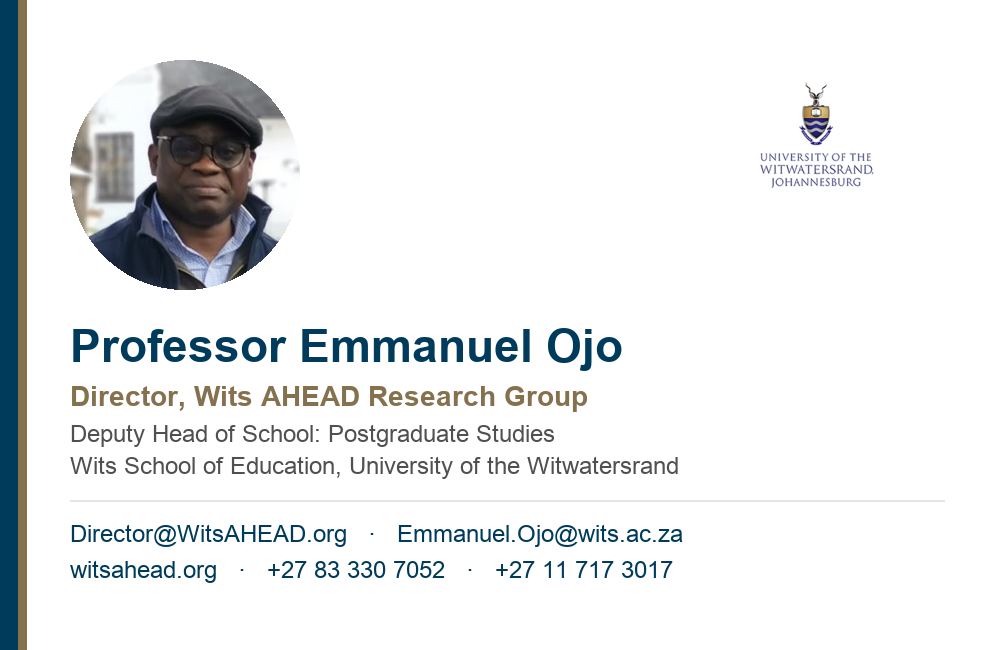
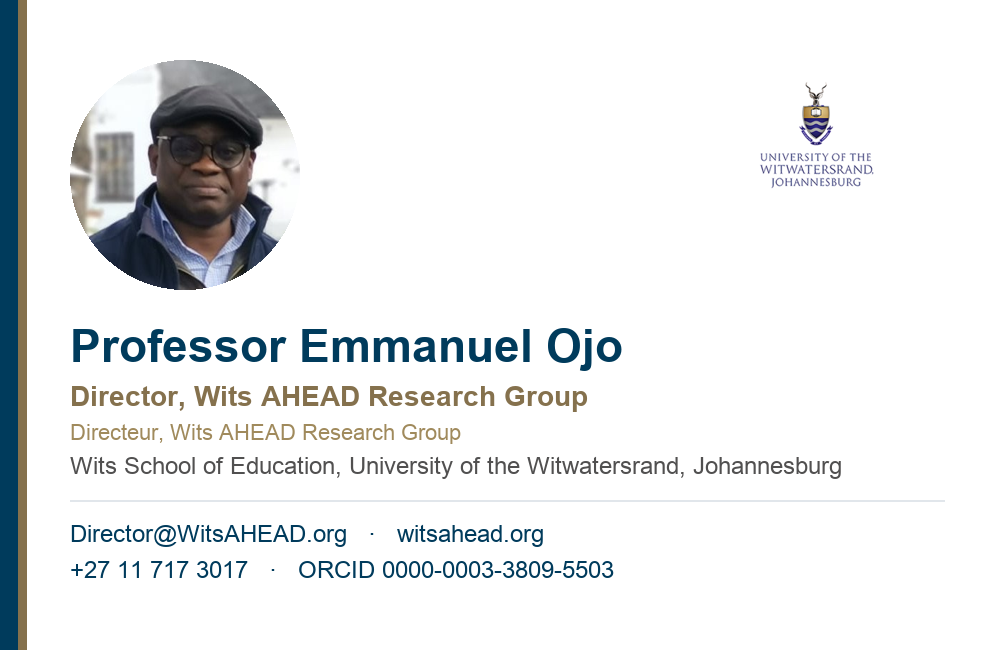
Site update 2026-09-15 00:16

diff --git a/card/index.html b/card/index.html
@@ -26,7 +26,7 @@ body{font-family:var(--font);color:var(--text);background:radial-gradient(1200px
 .head .lg{display:flex;align-items:center;justify-content:center;padding:18px;border-left:1px solid var(--line)}.head .lg img{max-width:100%;max-height:130px}
 .id{padding:20px 22px 6px;border-top:5px solid var(--gold)}
 .id h1{margin:0;font-size:24px;line-height:1.15;color:var(--navy);letter-spacing:-.2px}
-.id .r1{margin:6px 0 0;font-weight:700;color:var(--gold);font-size:14.5px}.id .r2{margin:3px 0 0;color:var(--muted);font-size:13px;line-height:1.45}
+.id .r1{margin:6px 0 0;font-weight:700;color:var(--gold);font-size:14.5px}.id .r1 .fr{display:block;font-weight:600;font-size:13px;color:#A08A5C}.id .r2{margin:3px 0 0;color:var(--muted);font-size:13px;line-height:1.45}
 .id .tag{margin:12px 0 0;font-size:13px;color:var(--navy);font-style:italic;border-left:3px solid var(--sand);padding-left:10px}
 .acts{display:grid;grid-template-columns:1fr 1fr;gap:10px;padding:16px 22px 18px}
 .acts a{display:flex;align-items:center;justify-content:center;gap:8px;padding:13px 10px;border-radius:10px;text-decoration:none;font-weight:700;font-size:14px;border:2px solid var(--navy);color:var(--navy);transition:transform .15s,background .15s}
@@ -52,8 +52,8 @@ body{font-family:var(--font);color:var(--text);background:radial-gradient(1200px
     <div class="head"><div class="ph" role="img" aria-label="Professor Emmanuel Ojo"></div><div class="lg"><img src="wits-crest.png" alt="University of the Witwatersrand, Johannesburg" width="260" height="173"></div></div>
     <div class="id an">
       <h1>Professor Emmanuel Ojo</h1>
-      <p class="r1" data-en="Director, Wits AHEAD Research Group" data-fr="Directeur, Wits AHEAD Research Group">Director, Wits AHEAD Research Group</p>
-      <p class="r2"><span data-en="Deputy Head of School: Postgraduate Studies, Wits School of Education" data-fr="Directeur adjoint de l'École chargé des études supérieures, Wits School of Education">Deputy Head of School: Postgraduate Studies, Wits School of Education</span><br><span data-en="University of the Witwatersrand, Johannesburg" data-fr="Université du Witwatersrand, Johannesburg">University of the Witwatersrand, Johannesburg</span></p>
+      <p class="r1">Director, Wits AHEAD Research Group<span class="fr" lang="fr">Directeur, Wits AHEAD Research Group</span></p>
+      <p class="r2">Wits School of Education<br><span data-en="University of the Witwatersrand, Johannesburg" data-fr="Université du Witwatersrand, Johannesburg">University of the Witwatersrand, Johannesburg</span></p>
       <p class="tag" data-en="Artificial intelligence, analytics and data, put to work for human capability." data-fr="L'intelligence artificielle, l'analytique et les données, au service de la capabilité humaine.">Artificial intelligence, analytics and data, put to work for human capability.</p>
     </div>
     <div class="acts an">
@@ -61,7 +61,7 @@ body{font-family:var(--font);color:var(--text);background:radial-gradient(1200px
       <a href="#" id="share"><svg viewBox="0 0 24 24"><circle cx="6" cy="12" r="2"/><circle cx="18" cy="6" r="2"/><circle cx="18" cy="18" r="2"/><path d="M8 11l8-4M8 13l8 4"/></svg><span data-t="share">Share</span></a>
       <a class="wide" id="exchange" href="mailto:Director@WitsAHEAD.org"><svg viewBox="0 0 24 24"><path d="M3 6h18v12H3z"/><path d="M3 7l9 6 9-6"/></svg><span data-t="exchange">Send me your details</span></a>
     </div>
-    <div class="rows"><a class="row an" href="mailto:Director@WitsAHEAD.org"><span class="ic"><svg viewBox="0 0 24 24"><path d="M3 6h18v12H3z"/><path d="M3 7l9 6 9-6"/></svg></span><span class="tx"><b>Director@WitsAHEAD.org</b><small data-t="email">Email</small></span></a><a class="row an" href="mailto:Emmanuel.Ojo@wits.ac.za"><span class="ic"><svg viewBox="0 0 24 24"><path d="M3 6h18v12H3z"/><path d="M3 7l9 6 9-6"/></svg></span><span class="tx"><b>Emmanuel.Ojo@wits.ac.za</b><small data-t="witsmail">Wits email</small></span></a><a class="row an" href="https://witsahead.org/" target="_blank" rel="noopener"><span class="ic"><svg viewBox="0 0 24 24"><circle cx="12" cy="12" r="9"/><path d="M3 12h18M12 3a14 14 0 010 18M12 3a14 14 0 000 18"/></svg></span><span class="tx"><b>witsahead.org</b><small data-t="web">Website</small></span></a><a class="row an" href="https://pathway.witsahead.org/" target="_blank" rel="noopener"><span class="ic"><svg viewBox="0 0 24 24"><path d="M4 20l6-6M14 4a6 6 0 11-4.2 10.2L4 20"/><circle cx="15" cy="9" r="2"/></svg></span><span class="tx"><b>pathway.witsahead.org</b><small data-t="pathway">For candidates</small></span></a><a class="row an" href="tel:+27117173017"><span class="ic"><svg viewBox="0 0 24 24"><path d="M5 4h4l2 5-2.5 1.5a11 11 0 005 5L15 13l5 2v4a2 2 0 01-2 2A16 16 0 013 6a2 2 0 012-2z"/></svg></span><span class="tx"><b>+27 11 717 3017</b><small data-t="tel">Office</small></span></a><a class="row an" href="tel:+27833307052"><span class="ic"><svg viewBox="0 0 24 24"><rect x="7" y="2" width="10" height="20" rx="2"/><path d="M11 18h2"/></svg></span><span class="tx"><b>+27 83 330 7052</b><small data-t="cell">Mobile</small></span></a><a class="row an" href="https://orcid.org/0000-0003-3809-5503" target="_blank" rel="noopener"><span class="ic"><svg viewBox="0 0 24 24"><circle cx="12" cy="12" r="9"/><path d="M9 8v8M15 8v8M9 8h3a4 4 0 010 8H9"/></svg></span><span class="tx"><b>0000-0003-3809-5503</b><small data-t="orcid">ORCID</small></span></a><a class="row an" href="https://www.linkedin.com/in/emmanuelojo" target="_blank" rel="noopener"><span class="ic"><svg viewBox="0 0 24 24"><rect x="3" y="3" width="18" height="18" rx="3"/><path d="M8 10v7M8 7v.5M12 17v-4a2 2 0 014 0v4"/></svg></span><span class="tx"><b>linkedin.com/in/emmanuelojo</b><small data-t="linkedin">LinkedIn</small></span></a><a class="row an" href="https://x.com/Emmanuel_Ojo" target="_blank" rel="noopener"><span class="ic"><svg viewBox="0 0 24 24"><path d="M4 4l16 16M20 4L4 20"/></svg></span><span class="tx"><b>@Emmanuel_Ojo</b><small data-t="x">X</small></span></a><div class="row an"><span class="ic"><svg viewBox="0 0 24 24"><path d="M12 22s7-7 7-12a7 7 0 10-14 0c0 5 7 12 7 12z"/><circle cx="12" cy="10" r="2.5"/></svg></span><span class="tx"><b>Wits School of Education, University of the Witwatersrand, Private Bag 3, Wits 2050, Johannesburg, South Africa</b><small data-t="addr">Postal address</small></span></div></div>
+    <div class="rows"><a class="row an" href="mailto:Director@WitsAHEAD.org"><span class="ic"><svg viewBox="0 0 24 24"><path d="M3 6h18v12H3z"/><path d="M3 7l9 6 9-6"/></svg></span><span class="tx"><b>Director@WitsAHEAD.org</b><small data-t="email">Email</small></span></a><a class="row an" href="https://witsahead.org/" target="_blank" rel="noopener"><span class="ic"><svg viewBox="0 0 24 24"><circle cx="12" cy="12" r="9"/><path d="M3 12h18M12 3a14 14 0 010 18M12 3a14 14 0 000 18"/></svg></span><span class="tx"><b>witsahead.org</b><small data-t="web">Website</small></span></a><a class="row an" href="https://pathway.witsahead.org/" target="_blank" rel="noopener"><span class="ic"><svg viewBox="0 0 24 24"><path d="M4 20l6-6M14 4a6 6 0 11-4.2 10.2L4 20"/><circle cx="15" cy="9" r="2"/></svg></span><span class="tx"><b>pathway.witsahead.org</b><small data-t="pathway">For candidates</small></span></a><a class="row an" href="tel:+27117173017"><span class="ic"><svg viewBox="0 0 24 24"><path d="M5 4h4l2 5-2.5 1.5a11 11 0 005 5L15 13l5 2v4a2 2 0 01-2 2A16 16 0 013 6a2 2 0 012-2z"/></svg></span><span class="tx"><b>+27 11 717 3017</b><small data-t="tel">Office</small></span></a><a class="row an" href="https://orcid.org/0000-0003-3809-5503" target="_blank" rel="noopener"><span class="ic"><svg viewBox="0 0 24 24"><circle cx="12" cy="12" r="9"/><path d="M9 8v8M15 8v8M9 8h3a4 4 0 010 8H9"/></svg></span><span class="tx"><b>0000-0003-3809-5503</b><small data-t="orcid">ORCID</small></span></a><div class="row an"><span class="ic"><svg viewBox="0 0 24 24"><path d="M12 22s7-7 7-12a7 7 0 10-14 0c0 5 7 12 7 12z"/><circle cx="12" cy="10" r="2.5"/></svg></span><span class="tx"><b>Wits School of Education, University of the Witwatersrand, Private Bag 3, Wits 2050, Johannesburg, South Africa</b><small data-t="addr">Postal address</small></span></div></div>
     <div class="qr an"><svg viewBox="0 0 31 31" width="150" height="150" shape-rendering="crispEdges" role="img" aria-label="QR code for witsahead.org/card" class="segno"><path class="qrline" stroke="#003b5c" d="M1 1.5h7m4 0h1m1 0h1m1 0h1m2 0h3m1 0h7m-29 1h1m5 0h1m3 0h2m2 0h2m3 0h1m2 0h1m5 0h1m-29 1h1m1 0h3m1 0h1m1 0h1m2 0h4m1 0h2m1 0h2m1 0h1m1 0h3m1 0h1m-29 1h1m1 0h3m1 0h1m2 0h3m1 0h3m2 0h3m1 0h1m1 0h3m1 0h1m-29 1h1m1 0h3m1 0h1m1 0h1m1 0h2m10 0h1m1 0h3m1 0h1m-29 1h1m5 0h1m1 0h2m2 0h1m1 0h3m1 0h2m2 0h1m5 0h1m-29 1h7m1 0h1m1 0h1m1 0h1m1 0h1m1 0h1m1 0h1m1 0h1m1 0h7m-20 1h1m2 0h1m1 0h4m-17 1h1m2 0h1m1 0h1m1 0h3m1 0h3m1 0h1m1 0h1m1 0h2m1 0h2m1 0h1m-27 1h2m1 0h3m4 0h2m1 0h1m1 0h2m1 0h1m1 0h1m1 0h3m2 0h2m-29 1h1m2 0h4m3 0h3m2 0h2m4 0h1m2 0h1m1 0h1m1 0h1m-26 1h1m1 0h1m3 0h2m2 0h3m1 0h2m1 0h2m2 0h2m1 0h2m-29 1h2m1 0h1m2 0h2m1 0h4m1 0h4m1 0h2m2 0h1m1 0h1m2 0h1m-29 1h2m3 0h1m1 0h1m3 0h2m1 0h1m2 0h2m3 0h1m1 0h1m1 0h1m1 0h1m-28 1h1m1 0h1m1 0h2m1 0h3m2 0h2m1 0h1m1 0h1m1 0h3m1 0h1m2 0h2m-29 1h2m3 0h1m1 0h2m2 0h1m3 0h2m2 0h2m2 0h1m1 0h1m1 0h2m-29 1h2m4 0h3m1 0h1m4 0h2m2 0h3m5 0h1m-28 1h5m2 0h3m3 0h1m4 0h1m3 0h1m1 0h1m3 0h1m-27 1h2m1 0h3m1 0h1m1 0h3m1 0h1m1 0h1m6 0h3m1 0h1m-27 1h1m1 0h2m1 0h3m2 0h1m2 0h5m5 0h1m-26 1h2m1 0h1m1 0h2m4 0h1m5 0h1m1 0h6m3 0h1m-21 1h1m1 0h7m1 0h1m1 0h1m3 0h1m1 0h1m1 0h1m-29 1h7m2 0h1m1 0h1m1 0h1m1 0h1m1 0h1m1 0h2m1 0h1m1 0h1m3 0h1m-29 1h1m5 0h1m4 0h1m3 0h1m1 0h4m3 0h2m2 0h1m-29 1h1m1 0h3m1 0h1m1 0h1m2 0h4m3 0h7m-25 1h1m1 0h3m1 0h1m2 0h6m1 0h2m5 0h1m1 0h3m-28 1h1m1 0h3m1 0h1m3 0h5m1 0h2m1 0h3m4 0h3m-29 1h1m5 0h1m1 0h1m1 0h3m1 0h1m2 0h1m1 0h5m1 0h1m1 0h2m-29 1h7m2 0h2m1 0h1m1 0h2m1 0h1m2 0h2m2 0h2m1 0h1"/></svg><b>witsahead.org/card</b><small data-t="scan">Scan to save this card</small></div>
   </div>
   <p class="foot"><span data-t="foot">Held by the Wits AHEAD Research Group. No tracking, no cookies.</span><br><a href="/">witsahead.org</a> · <a href="/privacy/">Privacy</a></p>
